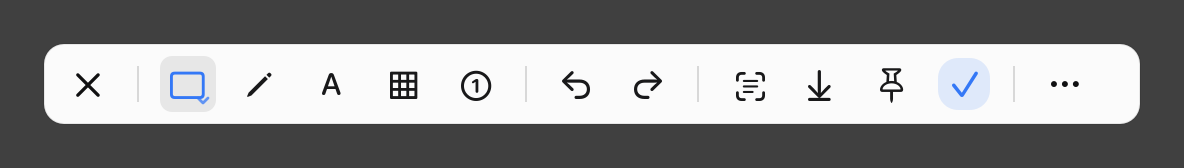
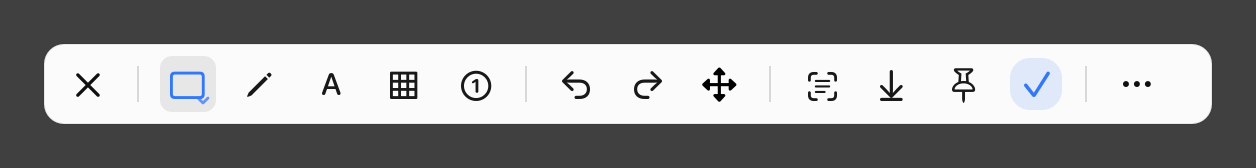
Drag the selection by its body when no tool or text editing is active (open-hand cursor, commits text and clears annotation selection first); move handle joins the default bar with a one-time promotion for saved layouts

diff --git a/Clip/Editor/EditWindowController.swift b/Clip/Editor/EditWindowController.swift
@@ -415,6 +415,10 @@ class EditWindowController {
 
         let canvas = EditCanvasView(frame: NSRect(origin: .zero, size: canvasSize))
         canvas.hostSelectionView = hostSelectionView
+        self.hostSelectionView?.onMoveWillBegin = { [weak self] in
+            self?.canvasView?.commitActiveTextEditing()
+            self?.canvasView?.clearAnnotationSelection()
+        }
         canvas.captureRect = captureRect
         canvas.captureScreen = screen
         canvas.preSnapshot = preSnapshot
@@ -2842,6 +2846,7 @@ class EditWindowController {
         selectionChromeOverlay?.removeFromSuperview()
         selectionChromeOverlay = nil
         hostSelectionView?.annotationToolActive = false
+        hostSelectionView?.onMoveWillBegin = nil
         hostSelectionView?.selectionInteractionEnabled = true
         hostSelectionView?.scrollCaptureActive = false
         toolbars.forEach { $0.isHidden = false; $0.removeFromSuperview() }
@@ -3072,17 +3077,17 @@ class EditWindowController {
         let hasPreview = canvasView?.hasPreviewImage == true
         let hasFixedImage = overrideBaseImage != nil
         let isBlocked = isScrollCaptureBusy || isCropping
-        // Once the editor is up, the canvas owns clicks inside the selection
-        // rect for the entire session — drawing tools, adjust-mode handles,
-        // and dragging existing annotations all go through it. The legacy
-        // "click inside the selection moves the whole rect" gesture has
-        // moved to a dedicated toolbar handle so adjust-mode clicks on
-        // empty canvas don't get hijacked.
-        // When beautify is on, handle hits go through `selectionChromeOverlay`
-        // (which sits above the canvas); the SelectionView itself stays
-        // available for any clicks that fall outside the gradient frame so the
-        // user can still adjust the selection.
-        hostSelectionView?.annotationToolActive = !isBlocked
+        // With no tool active the canvas only claims clicks that land on an
+        // annotation (see EditCanvasView.hitTest); everything else falls
+        // through to the SelectionView, which may then move the whole rect.
+        // Any other state (a drawing tool, text being typed, a preview, a
+        // fixed image, beautify, scroll capture, cropping) keeps the old
+        // behaviour where the selection cannot be dragged by its body; the
+        // toolbar's move handle still works everywhere.
+        let idle = activeTool == .none
+            && canvasView?.isEditingText != true
+            && !hasPreview && !hasFixedImage && !isBeautifyActive
+        hostSelectionView?.annotationToolActive = isBlocked || !idle
         hostSelectionView?.selectionInteractionEnabled = !(isBlocked || hasPreview)
         canvasScrollView?.isInteractionEnabled = (activeTool != .none) || hasPreview || hasFixedImage || isBeautifyActive
         updateSelectionChromePresentation()

diff --git a/Clip/Editor/ToolbarLayout.swift b/Clip/Editor/ToolbarLayout.swift
@@ -257,11 +257,11 @@ struct ToolbarLayout: Equatable {
             primary: [
                 .close, .divider1,
                 .rectangle, .ellipse, .arrow, .line, .pen, .text, .mosaic, .numbered, .divider2,
-                .undo, .redo, .divider3,
+                .undo, .redo, .moveSelection, .divider3,
                 .ocr, .save, .pin, .confirm,
             ],
             side: [.marker, .eraser, .scrollCapture, .colorPicker, .magnifier, .rotate, .record],
-            hidden: [.spotlight, .beautify, .qrCode, .emoji, .insertImage, .moveSelection, .divider4]
+            hidden: [.spotlight, .beautify, .qrCode, .emoji, .insertImage, .divider4]
         )
     }
 
@@ -390,7 +390,28 @@ extension Defaults {
             else {
                 return .default
             }
-            return ToolbarLayout(dictionary: dict).normalized()
+            var layout = ToolbarLayout(dictionary: dict).normalized()
+            // 2026-10-24: the move handle joined the default bar. Promote it
+            // once for layouts saved before that, next to undo/redo.
+            let promotedKey = "editor.toolbarLayout.moveHandlePromoted"
+            if !UserDefaults.standard.bool(forKey: promotedKey) {
+                UserDefaults.standard.set(true, forKey: promotedKey)
+                if let at = layout.hidden.firstIndex(of: .moveSelection) {
+                    var hidden = layout.hidden
+                    hidden.remove(at: at)
+                    var primary = layout.primary
+                    if let i = primary.lastIndex(where: { $0 == .redo || $0 == .undo }) {
+                        primary.insert(.moveSelection, at: i + 1)
+                    } else if let i = primary.firstIndex(of: .confirm) {
+                        primary.insert(.moveSelection, at: i)
+                    } else {
+                        primary.append(.moveSelection)
+                    }
+                    layout = ToolbarLayout(primary: primary, side: layout.side, hidden: hidden)
+                    UserDefaults.standard.set(layout.normalized().dictionary, forKey: "editor.toolbarLayout")
+                }
+            }
+            return layout
         }
         set {
             UserDefaults.standard.set(

diff --git a/Clip/Capture/SelectionView.swift b/Clip/Capture/SelectionView.swift
@@ -63,7 +63,12 @@ class SelectionView: NSView {
     private var dragOriginalRect: NSRect = .zero
 
     // Whether annotation tools are active (pass mouse events through to canvas)
-    var annotationToolActive = false
+    var annotationToolActive = false {
+        didSet { if annotationToolActive != oldValue { refreshCursorRects() } }
+    }
+    /// Fired right before a drag inside the selection starts moving it, so
+    /// the editor can commit text and drop its annotation selection first.
+    var onMoveWillBegin: (() -> Void)?
 
     // When true, clicking outside selection won't start a new selection
     var selectionLocked = false {
@@ -218,6 +223,11 @@ class SelectionView: NSView {
         } else if state == .selected,
                   selectionInteractionEnabled,
                   let rect = selectionRect {
+            // Interior first, handles after, so handle cursors win at the edges.
+            if !annotationToolActive {
+                let inside = rect.intersection(bounds)
+                if !inside.isNull { addCursorRect(inside, cursor: .openHand) }
+            }
             let positions = SelectionView.handlePositions(for: rect)
             for (index, handle) in HandlePosition.allCases.enumerated() {
                 let position = positions[index]
@@ -317,10 +327,11 @@ class SelectionView: NSView {
                     // Let canvas handle it
                     return
                 }
+                onMoveWillBegin?()
                 dragAction = .move
                 dragStart = point
                 dragOriginalRect = rect
-                NSCursor.arrow.set()
+                NSCursor.closedHand.set()
                 delegate?.selectionDidStart(reason: .existingSelectionAdjustment)
                 return
             }

diff --git a/Clip/Editor/EditCanvasView.swift b/Clip/Editor/EditCanvasView.swift
@@ -2268,6 +2268,16 @@ class EditCanvasView: NSView {
     /// Force-commit any in-progress text. Called by the controller when
     /// switching tools or activating actions like save/confirm so the
     /// floating editor's contents make it into the composite.
+    /// True while a text annotation is being typed into.
+    var isEditingText: Bool { activeTextField != nil }
+
+    /// Drops the annotation selection, as a click on empty canvas would.
+    func clearAnnotationSelection() {
+        guard selectedIndex != nil || !selectedIndexes.isEmpty else { return }
+        setSelectedIndexes([])
+        needsDisplay = true
+    }
+
     func commitActiveTextEditing() {
         activeTextField?.commit()
     }
